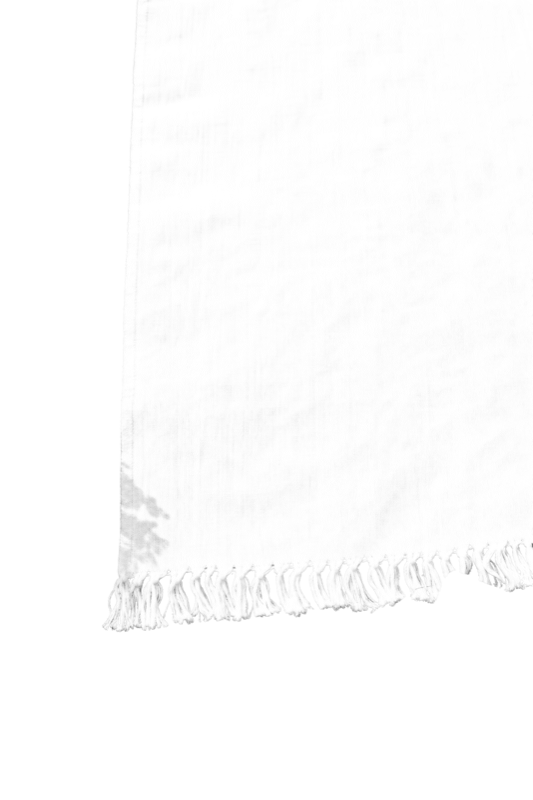
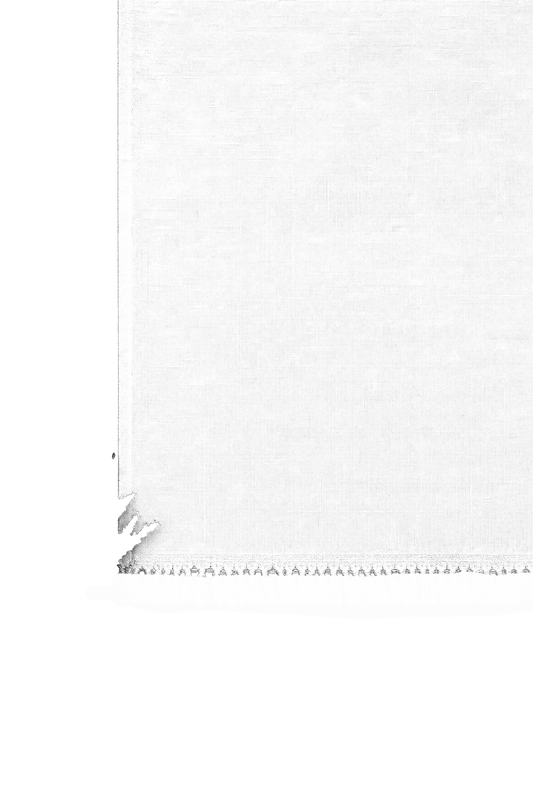
feat: swap picnic blanket v2 art; fix iPad mockup downloads (Photos multi-save + responsive download grid)

diff --git a/src/components/ios/IOSSaveSheet.tsx b/src/components/ios/IOSSaveSheet.tsx
@@ -9,8 +9,9 @@ import {
 
 // Mounted once at app root. When a task is queued, renders a sheet whose
 // "Save" button calls navigator.share synchronously — required by iOS to
-// preserve the user-activation token. If share fails or isn't available,
-// falls back to anchor-download.
+// preserve the user-activation token. A task may carry one file (shares to
+// Photos) or many (shares as a batch so iOS offers "Save N Images"). If share
+// fails or isn't available, falls back to anchor-download of each file.
 
 function anchorDownload(blob: Blob, filename: string) {
   const url = URL.createObjectURL(blob);
@@ -26,6 +27,10 @@ function anchorDownload(blob: Blob, filename: string) {
   }
 }
 
+function anchorDownloadAll(task: IOSSaveTask) {
+  for (const f of task.files) anchorDownload(f.blob, f.filename);
+}
+
 export default function IOSSaveSheet() {
   const [task, setTask] = useState<IOSSaveTask | null>(null);
   const [status, setStatus] = useState<'idle' | 'sharing' | 'error'>('idle');
@@ -37,15 +42,27 @@ export default function IOSSaveSheet() {
 
   if (!task) return null;
 
+  const count = task.files.length;
+  const isMulti = count > 1;
+  const heading = isMulti ? `Ready to save ${count} files` : 'Ready to save';
+  const subtitle = isMulti ? `${count} images` : task.files[0]?.filename ?? '';
+  const saveLabel = status === 'sharing'
+    ? 'Opening…'
+    : status === 'error'
+      ? 'Downloaded to Files'
+      : isMulti
+        ? `Save ${count} images to Photos or Files`
+        : 'Save to Photos or Files';
+
   const handleShare = async () => {
     setStatus('sharing');
     try {
-      const file = new File([task.blob], task.filename, { type: task.mimeType });
+      const files = task.files.map((f) => new File([f.blob], f.filename, { type: f.mimeType }));
       // canShare may not exist on older iOS — proceed and let share() decide.
-      if (typeof navigator.canShare === 'function' && !navigator.canShare({ files: [file] })) {
+      if (typeof navigator.canShare === 'function' && !navigator.canShare({ files })) {
         throw new Error('canShare returned false');
       }
-      await navigator.share({ files: [file], title: task.filename });
+      await navigator.share({ files, title: isMulti ? `${count} images` : task.files[0].filename });
       completeCurrentIOSSaveTask();
     } catch (err) {
       if ((err as Error)?.name === 'AbortError') {
@@ -54,14 +71,14 @@ export default function IOSSaveSheet() {
         return;
       }
       // Any other failure → download to Files. Surface briefly so user knows.
-      anchorDownload(task.blob, task.filename);
+      anchorDownloadAll(task);
       setStatus('error');
       setTimeout(() => completeCurrentIOSSaveTask(), 900);
     }
   };
 
   const handleFallback = () => {
-    anchorDownload(task.blob, task.filename);
+    anchorDownloadAll(task);
     completeCurrentIOSSaveTask();
   };
 
@@ -78,9 +95,9 @@ export default function IOSSaveSheet() {
         onClick={(e) => e.stopPropagation()}
       >
         <div className="px-6 pt-5 pb-2">
-          <h3 className="text-lg font-bold text-[#294051]">Ready to save</h3>
-          <p className="text-xs text-gray-500 mt-1 truncate" title={task.filename}>
-            {task.filename}
+          <h3 className="text-lg font-bold text-[#294051]">{heading}</h3>
+          <p className="text-xs text-gray-500 mt-1 truncate" title={subtitle}>
+            {subtitle}
           </p>
         </div>
 
@@ -91,7 +108,7 @@ export default function IOSSaveSheet() {
             disabled={status === 'sharing'}
             className="w-full py-3 rounded-xl bg-[#4caf50] text-white font-semibold text-base disabled:opacity-60"
           >
-            {status === 'sharing' ? 'Opening…' : status === 'error' ? 'Downloaded to Files' : 'Save to Photos or Files'}
+            {saveLabel}
           </button>
           <button
             type="button"

diff --git a/src/lib/utils/mockupSocialExport.ts b/src/lib/utils/mockupSocialExport.ts
@@ -3,7 +3,8 @@
 // each target social size, then reuses the existing watermark + badge compositors.
 
 import JSZip from 'jszip';
-import { downloadBlob } from './downloadCanvas';
+import { downloadBlob, isIOS } from './downloadCanvas';
+import { pushIOSSaveTaskMulti } from './iosSaveQueue';
 import { applyWatermarkToBlob, type WatermarkConfig } from '../watermark/watermark';
 import { applyBadgeToBlob, shouldStampBadge } from '../badge/patternpalBadge';
 import { SOCIAL_EXPORT_SCALE, FULL_SIZE_SLUG, type SocialSizePreset, type SizeSlug } from '../export/socialSizes';
@@ -165,10 +166,24 @@ export async function downloadMockupSocialSizes(
   if (ok.length === 1) {
     await downloadBlob(ok[0].blob, `${baseName}-${ok[0].preset.slug}.png`, 'image/png');
   } else if (ok.length > 1) {
-    const zip = new JSZip();
-    for (const r of ok) zip.file(`${baseName}-${r.preset.slug}.png`, r.blob);
-    const zipBlob = await zip.generateAsync({ type: 'blob' });
-    await downloadBlob(zipBlob, `${baseName}-mockup-social.zip`, 'application/zip');
+    // On iOS, share all images as a batch so the native sheet offers "Save N
+    // Images" straight to Photos. A zip can only land in Files, never Photos —
+    // which is exactly what users hit when downloading several mockup sizes at
+    // once. Desktop keeps the zip (one tidy file beats N save dialogs there).
+    if (isIOS() && typeof navigator.share === 'function') {
+      await pushIOSSaveTaskMulti(
+        ok.map(r => ({
+          blob: r.blob,
+          filename: `${baseName}-${r.preset.slug}.png`,
+          mimeType: 'image/png',
+        })),
+      );
+    } else {
+      const zip = new JSZip();
+      for (const r of ok) zip.file(`${baseName}-${r.preset.slug}.png`, r.blob);
+      const zipBlob = await zip.generateAsync({ type: 'blob' });
+      await downloadBlob(zipBlob, `${baseName}-mockup-social.zip`, 'application/zip');
+    }
   }
   return { failed };
 }

diff --git a/src/lib/utils/iosSaveQueue.ts b/src/lib/utils/iosSaveQueue.ts
@@ -3,12 +3,19 @@
 // navigator.share synchronously inside the click handler — preserving the
 // user-activation token that iOS Safari requires.
 //
-// All other downloadBlob callers continue to use anchor-download.
+// A task carries one OR MANY files: a single image shares straight to Photos;
+// multiple images share as a batch so iOS offers "Save N Images" to Photos
+// (the alternative — zipping — can only land in Files). All other downloadBlob
+// callers continue to use anchor-download.
 
-export interface IOSSaveTask {
+export interface IOSSaveFile {
   blob: Blob;
   filename: string;
   mimeType: string;
+}
+
+export interface IOSSaveTask {
+  files: IOSSaveFile[];
   // Resolved when the user has either shared, dismissed, or fallen back.
   resolve: () => void;
 }
@@ -29,13 +36,9 @@ export function subscribeIOSSaveQueue(fn: Listener): () => void {
   return () => listeners.delete(fn);
 }
 
-export function pushIOSSaveTask(
-  blob: Blob,
-  filename: string,
-  mimeType: string,
-): Promise<void> {
+function enqueue(files: IOSSaveFile[]): Promise<void> {
   return new Promise((resolve) => {
-    const task: IOSSaveTask = { blob, filename, mimeType, resolve };
+    const task: IOSSaveTask = { files, resolve };
     if (currentTask) {
       queue.push(task);
     } else {
@@ -43,6 +46,21 @@ export function pushIOSSaveTask(
       notify();
     }
   });
+}
+
+/** Queue a single file for the iOS save sheet. */
+export function pushIOSSaveTask(
+  blob: Blob,
+  filename: string,
+  mimeType: string,
+): Promise<void> {
+  return enqueue([{ blob, filename, mimeType }]);
+}
+
+/** Queue several files as one batch — iOS shares them together so the user can
+ *  save all of them to Photos in a single gesture. */
+export function pushIOSSaveTaskMulti(files: IOSSaveFile[]): Promise<void> {
+  return enqueue(files);
 }
 
 // Called by the save sheet after the user finishes (share / cancel / fallback).

diff --git a/src/lib/mockups/mockupEngineV2/templates/templateRegistry.ts b/src/lib/mockups/mockupEngineV2/templates/templateRegistry.ts
@@ -474,7 +474,7 @@ export const mockupV2Templates: Record<string, MockupV2Template> = {
     description: 'Picnic blanket laid out on the grass',
     category: 'home-goods',
     canvasSize: { width: 3000, height: 4500 },
-    patternArea: { x: 661, y: 0, width: 2339, height: 3251 },
+    patternArea: { x: 662, y: 0, width: 2338, height: 3335 },
     perspective: { topSqueeze: 0, bottomSqueeze: 0 },
     displacement: { intensity: 0, wrinkleFreq: 0, type: 'flat-surface' },
     blend: { mode: 'multiply', opacity: 1.0 },
@@ -482,12 +482,12 @@ export const mockupV2Templates: Record<string, MockupV2Template> = {
       {
         id: 'main',
         maskPath: '/mockups/v2/picnic-blanket-main-mask.png',
-        patternArea: { x: 661, y: 0, width: 2339, height: 3251 },
+        patternArea: { x: 662, y: 0, width: 2338, height: 3335 },
         perspective: { topSqueeze: 0, bottomSqueeze: 0 },
         displacement: { intensity: 0, wrinkleFreq: 0, type: 'flat-surface' },
         blend: { mode: 'multiply', opacity: 1.0 },
         physicalWidth: 30,
-        patternAngle: -5,
+        patternAngle: 0,
       },
     ],
     lighting: { enabled: false, intensity: 0 },

diff --git a/src/components/mockups/MockupDownloadMenu.tsx b/src/components/mockups/MockupDownloadMenu.tsx
@@ -135,12 +135,17 @@ function MockupDownloadMenu({
   const sizes = useMemo(() => mockupDownloadSizes(), []);
 
   return (
-    <div className="flex flex-col gap-3 border-t border-[#92afa5]/30 pt-3">
+    <div className="@container flex flex-col gap-3 border-t border-[#92afa5]/30 pt-3">
       <span className="text-[11px] font-bold uppercase tracking-wide text-[#294051]">
         Download mockup
       </span>
 
-      <div className="grid grid-cols-2 gap-x-4 gap-y-1">
+      {/* Single column until the pane is genuinely wide enough for two readable
+          rows (≈480px). In the two-pane layout the controls rail is ~440px on a
+          12.9" iPad portrait, where two columns starved the labels to "F.."/"P.."
+          and clipped the right column off the panel. Container query (not a
+          viewport breakpoint) because it's the rail width that matters here. */}
+      <div className="grid grid-cols-1 @[480px]:grid-cols-2 gap-x-4 gap-y-1">
         {sizes.map(preset => (
           <MockupDownloadRow
             key={preset.slug}

diff --git a/src/lib/utils/downloadCanvas.ts b/src/lib/utils/downloadCanvas.ts
@@ -1,6 +1,6 @@
 import { pushIOSSaveTask } from './iosSaveQueue';
 
-function isIOS(): boolean {
+export function isIOS(): boolean {
   if (typeof navigator === 'undefined') return false;
   const ua = navigator.userAgent;
   if (/iPad|iPhone|iPod/.test(ua)) return true;
